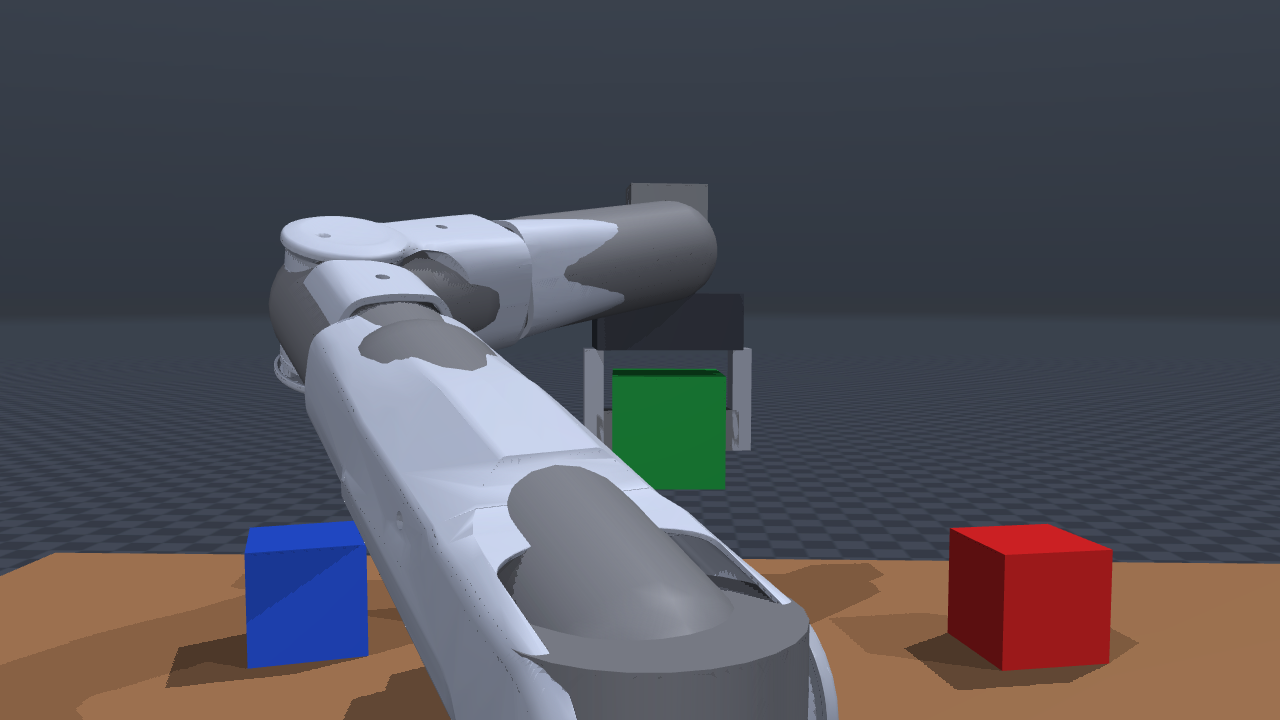
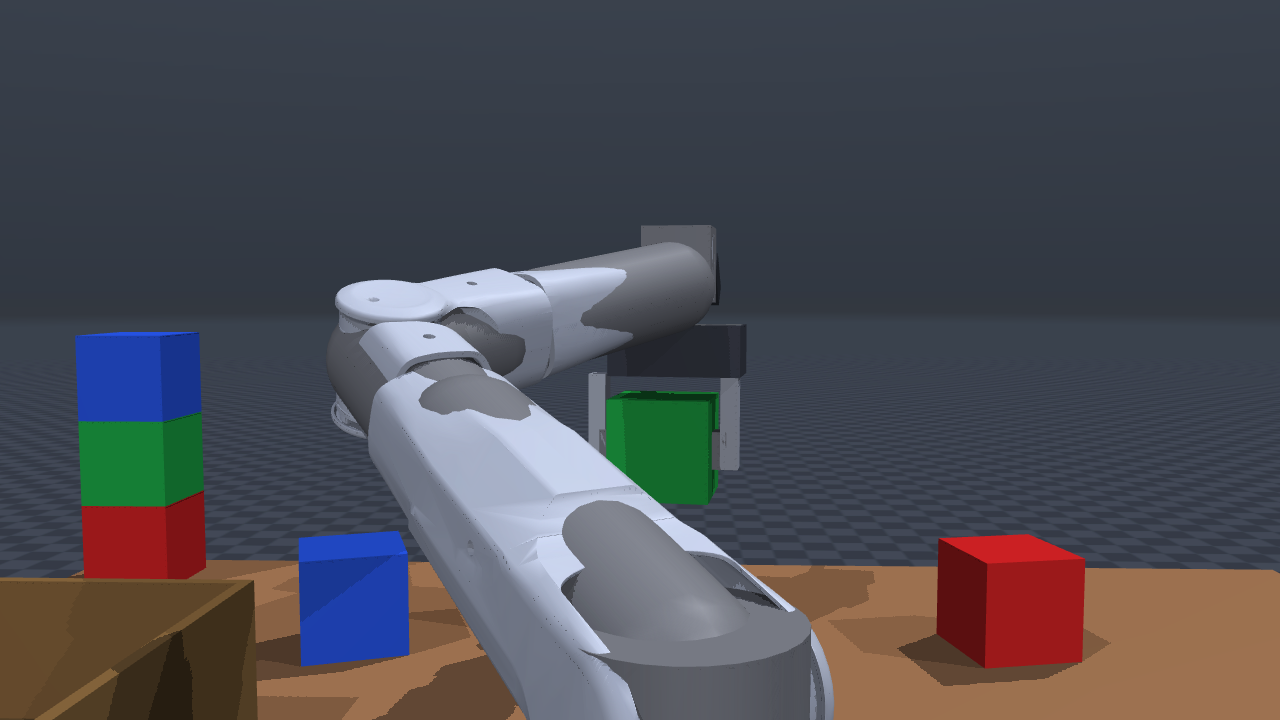
feat(scene): 桌面东北角新增叠叠塔（三个方块叠在一起）
- build_nero.py: TOWER_XY=(0.33,0.52)、TOWER_COLORS、tower_xml —— 单 body+freejoint+3 box geom（层间固定 z=0/0.08/0.16），原三块方块不动
- validate_nero.py 七段全通过；pick_place --all --check 三色全 PASS（塔不挡抓取路径）
- tools/check_tower.py: 塔 5 s 物理漂移 0.11 mm，顶面 z=0.980，STABLE
- render_showcase.py: 修复 hover/grasp 引用不存在的 keyframe（改 green_hover/green_grasp）
- README/渲染图同步更新

Changed region(s): [[0.0, 0.2444, 1.0, 1.0], [0.625, 0.8556, 0.6562, 1.0]]

diff --git a/build_nero.py b/build_nero.py
@@ -63,6 +63,11 @@ BASKET_SLOTS = {"red": (-0.060, -0.080),
 PLACE_Z = TABLE_Z + BASKET_FLOOR + CUBE_HALF
 PLACE_HOVER_DZ = 0.120      # 放置前悬停高度
 
+# --- 桌面场景里的"叠叠塔"：三个新方块叠在一起，原三块不动 -------------------
+TOWER_XY = (0.33, 0.52)       # 底层方块中心（桌面东北角，避开原三块/篮子/臂路径）
+TOWER_COLORS = ("mat_red", "mat_green", "mat_blue")   # 从下到上
+TOWER_NAME = "tower_stack"
+
 # --- 深度相机（RGB-D）：装在腕部（eye-in-hand），随夹爪一起运动 --------------
 # 为什么装腕部：抓取任务里相机要能看到"正要抓的那一块"，固定第三人称相机
 # 一旦机械臂伸过去就自己被挡住；腕部相机的视线永远跟着手走，且手眼外参固定，
@@ -650,10 +655,28 @@ def main():
                       ct=OBJ_CONTYPE, ca=OBJ_CONAFF)
         for n, (x, y), yaw, m in cubes)
 
+    # 叠叠塔：三个新方块叠在一起（单个 body + freejoint，三层固定不会散架）。
+    # 每层 geom 相对 body 原点抬高 0 / 0.08 / 0.16 m，颜色从下到上红/绿/蓝。
+    tower_layers = []
+    for i, mat in enumerate(TOWER_COLORS):
+        tower_layers.append(
+            """      <geom name="tower_{c}_geom" type="box" pos="0 0 {dz}" size="{s} {s} {s}"
+            material="{m}" mass="{mass}" friction="1.0 0.02 0.002"
+            contype="{ct}" conaffinity="{ca}"/>""".format(
+                c=("red", "green", "blue")[i],
+                dz=f(2.0 * CUBE_HALF * i, 3),
+                s=f(CUBE_HALF, 3), m=mat, mass=f(CUBE_MASS, 3),
+                ct=OBJ_CONTYPE, ca=OBJ_CONAFF))
+    tower_xml = """    <body name="{n}" pos="{x} {y} {z}">
+      <freejoint name="{n}_free"/>
+""".format(n=TOWER_NAME, x=f(TOWER_XY[0], 3), y=f(TOWER_XY[1], 3),
+           z=f(TABLE_Z + CUBE_HALF, 3)) + "\n".join(tower_layers) + """
+    </body>"""
+
     mount_body = "\n".join(body_xml("base_link", None, joints, "      "))
 
     SCENE_OUT.write_text("""<mujoco model="nero_desk_scene">
-  <!-- 桌面场景：AgileX NERO 七自由度机械臂 + 桌面三个彩色方块
+  <!-- 桌面场景：AgileX NERO 七自由度机械臂 + 桌面三个彩色方块 + 东北角叠叠塔
        由 build_nero.py 生成；机械臂基座固定在桌面上表面 (z=0.74) -->
 """ + common_head + "\n" + stat_scene + """
 
@@ -699,6 +722,9 @@ def main():
 
     <!-- 三个方块：边长 8 cm，摆在台面上 -->
 """ + cube_xml + """
+
+    <!-- 叠叠塔：三个新方块叠在一起（东北角，原三块不动） -->
+""" + tower_xml + """
 
     <!-- 收纳篮：放置任务的目标容器 -->
 """ + basket_xml() + """

diff --git a/tools/check_tower.py b/tools/check_tower.py
@@ -1,0 +1,33 @@
+"""探针：叠叠塔物理稳定性 —— 跑 5 s 物理看三层方块漂移与接触。"""
+import os
+import sys
+
+import numpy as np
+import mujoco
+
+ROOT = os.path.dirname(os.path.dirname(os.path.abspath(__file__)))
+sys.path.insert(0, ROOT)
+
+m = mujoco.MjModel.from_xml_path(str(os.path.join(ROOT, "nero_table_scene.xml")))
+d = mujoco.MjData(m)
+mujoco.mj_forward(m, d)
+
+names = ["tower_red_geom", "tower_green_geom", "tower_blue_geom"]
+gids = [mujoco.mj_name2id(m, mujoco.mjtObj.mjOBJ_GEOM, n) for n in names]
+p0 = np.array([d.geom_xpos[g].copy() for g in gids])
+print("初始顶面 z: %.4f" % (p0[-1][2] + 0.04))
+
+for _ in range(int(5.0 / m.opt.timestep)):
+    mujoco.mj_step(m, d)
+
+p1 = np.array([d.geom_xpos[g].copy() for g in gids])
+dz = p1 - p0
+print("5 s 后每层漂移 (mm): %s" % ", ".join(
+    "%.2f" % (np.linalg.norm(v) * 1e3) for v in dz))
+print("末层顶面 z: %.4f（理论 0.98）" % (p1[-1][2] + 0.04))
+ncon = sum(1 for i in range(d.ncon) if d.contact[i].dist < 0)
+print("接触对: %d" % ncon)
+ok = all(np.linalg.norm(v) < 0.005 for v in dz)
+print("STABLE" if ok else "UNSTABLE")
+sys.stdout.flush()
+os._exit(0 if ok else 1)

diff --git a/render_showcase.py b/render_showcase.py
@@ -40,10 +40,10 @@ def grab_and_lift(m, d, qad):
     d.ctrl[:7] = [m.key("ready").qpos[x] for x in qad]
     d.ctrl[7] = d.ctrl[8] = GRIP_OPEN
     mujoco.mj_forward(m, d)
-    drive("hover", GRIP_OPEN, 2.0)
-    drive("grasp", GRIP_OPEN, 2.5)
-    drive("grasp", GRIP_CLOSE, 2.0)
-    drive("hover", GRIP_CLOSE, 2.5)
+    drive("green_hover", GRIP_OPEN, 2.0)
+    drive("green_grasp", GRIP_OPEN, 2.5)
+    drive("green_grasp", GRIP_CLOSE, 2.0)
+    drive("green_hover", GRIP_CLOSE, 2.5)
 
 
 def arm_mask(r, d, cam):

diff --git a/README.md b/README.md
@@ -51,6 +51,10 @@ cd ~/NERO
 - **方块**：边长 **0.080 m**（8 cm），质量各 0.30 kg，带 `freejoint` 参与真实物理，
   初始绕 z 轴各有一点偏转：红 +12°、绿 -8°、蓝 +20°，位置分别为
   `(0.16, -0.26)`、`(0.18, 0)`、`(0.15, +0.26)`。
+- **叠叠塔**：桌面东北角 `(0.33, 0.52)` 另有**三个新方块叠在一起**
+  （从下到上红/绿/蓝，总高 0.24 m，顶面 z = 0.980 m）。三层用单个
+  `<body>` + `freejoint` 承载、层间固定（geom 抬高 0/0.08/0.16 m），
+  不会散架；跑 5 s 物理每层漂移仅 0.11 mm。原三块方块的位姿与物理不受影响。
 - **收纳篮**：中心 `(-0.16, 0.42)`，外廓 0.296 m 见方、侧壁高 0.090 m、壁厚 8 mm，
   内腔 **280 mm × 280 mm**，底板顶面 z = 0.748 m。5 个 box 拼成（底板 + 四面侧壁），
   也是真实碰撞体，方块扔进去会真的撞在壁上、落在底板上。
@@ -539,6 +543,7 @@ blue   blue_hover  15572 px  测得 [0.152  0.262 0.820]  真值 [0.150  0.260 0
 | 抓取 | hover → grasp（偏差 3.4 mm）→ 8 个 pad↔cube 接触 → 抬起 **Δz = +0.117 m** |
 | 渲染 | 机械臂在 4 个机位的画面占比 1.59% / 4.80% / 4.52% / 2.05% |
 | 腕部深度相机 | 848×480 fovy 80°，挂在 `gripper_base`，手眼外参 97.1 mm，三姿态间位移 0.454 m，三色水平误差 **1.7–2.6 mm** |
+| 叠叠塔 | 东北角三层叠放，跑 5 s 物理每层漂移 **0.11 mm**，顶面 z = 0.980 m |
 
 运动质量另有三个量化检查：
 
